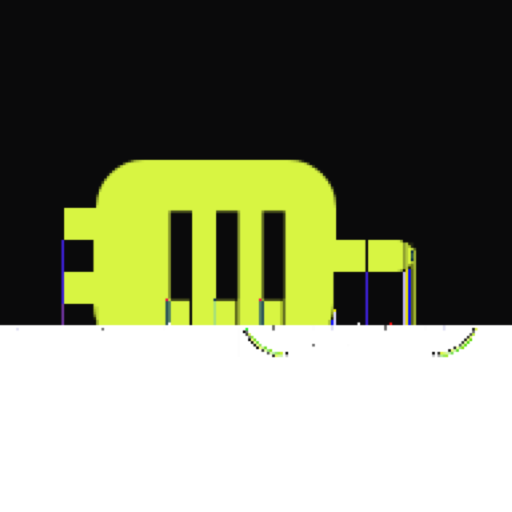
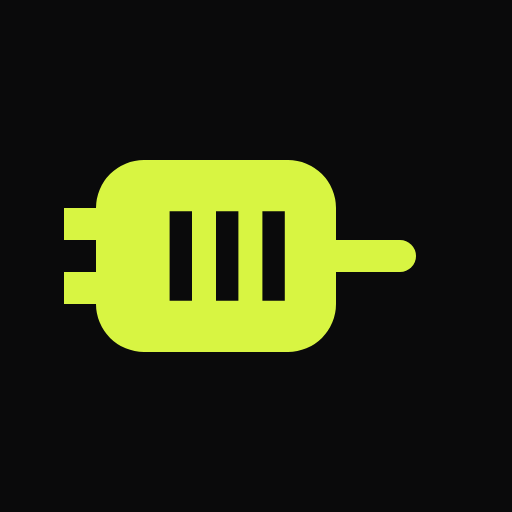
fix: 홈 화면 아이콘 깨짐(잘림·투명) 수정 (v2.46)
- v2.45 PNG 아이콘이 하단 잘림+투명으로 생성된 결함 수정
- 근원: 래스터화 SVG에 width/height 미지정 → drawImage가 상단만 렌더
- SVG에 width/height 명시해 원본 크기로 재래스터화(192/512/apple), maskable은 512 복사
- 전송 무결성 SHA-256 검증(maskable 단일 붙여넣기 손상을 가드가 감지→복사로 대체)

diff --git a/_workspace/03_dev/change-scope.md b/_workspace/03_dev/change-scope.md
@@ -1873,3 +1873,20 @@ inset 0, aria-hidden)으로 깔고 전경에 수치를 얹는 구조라, 펼친 
 - 브라우저(로컬): 모터 상세(실제 모터 "130 1")·not-found 모두 헤더에 수정·삭제 없음([뒤로]·테마·아바타만), 측정/차트/기록 정상. 모터 목록 행 스와이프 [수정]/[삭제] 유지 확인.
 - manifest.webmanifest 200(name·icons 4), 아이콘 4종 200 image/png, `<link rel=manifest/apple-touch-icon>` DOM 존재. 아이콘 픽셀 스캔: 192=13.8%·512=13.7%·maskable=7.7%·apple=6.9% 라임(글리프 정상, 초기 512 blank 재생성 완료).
 - 검증용 시드 모터는 IndexedDB에서 정리(빈 상태 복원).
+
+---
+
+## v2.46 — 홈 화면 아이콘 깨짐(잘림·투명) 수정 (bug-fix, 사용자 확인)
+
+### 증상 / 근원
+- v2.45 PNG 아이콘 4종이 **글리프 하단 절반 잘림 + 그 아래 투명**으로 생성됨(사용자 스크린샷 확인).
+- 근원: 래스터화 SVG 문자열에 `width/height`가 없어 `<img>` 고유 크기가 미정 → canvas `drawImage`가 상단 일부에만 렌더, 배경 rect도 함께 잘려 나머지 투명. (v2.45 sips 512는 잘린 192를 확대해 결함 승계+블러.)
+
+### 변경 (public/ 자산만)
+- `icon-192.png`·`icon-512.png`·`apple-touch-icon.png`: SVG에 `width/height` 명시해 브라우저 canvas로 **원본 크기 재래스터화**(꽉 찬 글리프).
+- `icon-maskable-512.png`: 사용자 결정으로 별도 생성 안 하고 `icon-512.png` 복사본 사용.
+
+### 검증
+- 전송 무결성: 각 PNG를 브라우저 SHA-256과 디스크 `shasum` 대조(192·512·apple 1치). **maskable 단일 붙여넣기에서 SHA MISMATCH 감지(de5475≠8ebeb3)** → v2.45식 대용량 base64 손상을 새 SHA 가드가 실제로 잡음. 이후 512 복사로 대체.
+- 브라우저: 디스크 4종 모두 꽉 찬 글리프·중앙정렬·풀블리드 배경(잘림/투명/아티팩트 없음) 확인. 사용자 최종 확인 완료.
+- 자산 전용 변경(소스·테스트 무변경)이라 typecheck/lint/test/build 영향 없음. dist는 배포 시 Vercel이 재빌드.
